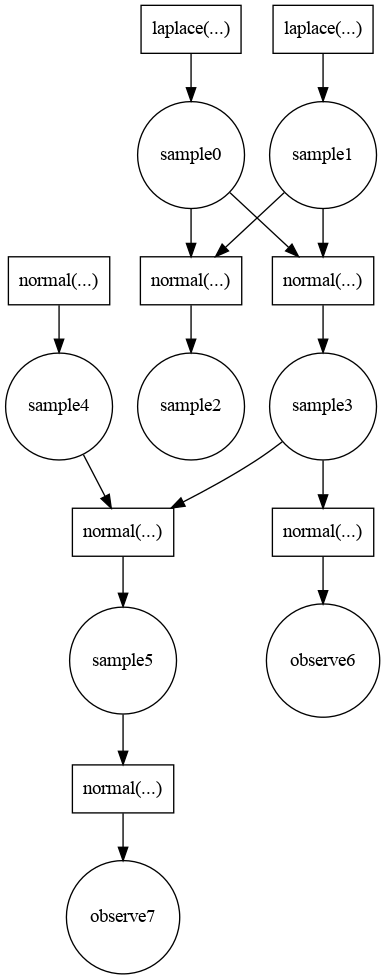
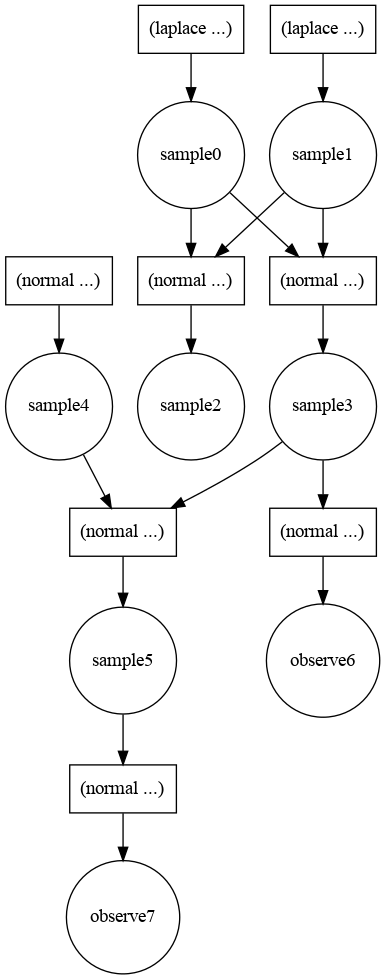
Change to use lispy labels in PGM diagrams

diff --git a/ppl-impl/viz.py b/ppl-impl/viz.py
@@ -93,7 +93,7 @@ def render_graphs():
         graph = graphviz.Digraph(format="png")
         for node in g["V"]:
             dist_type = g["P"][node][1][0]
-            graph.node(node+"_factor", label=f"{dist_type}(...)", shape="box")
+            graph.node(node+"_factor", label=f"({dist_type} ...)", shape="box")
             observed = node in g["Y"]
             graph.node(node,  shape="circle", fillcolor = "gray" if observed else "white")
             graph.edge(node+"_factor", node)
